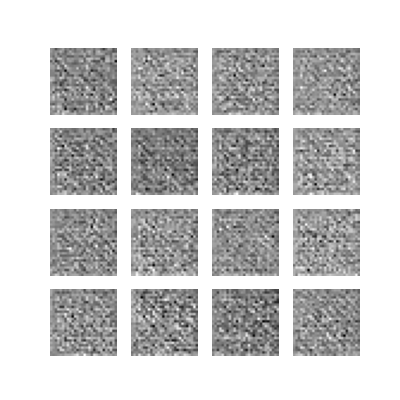
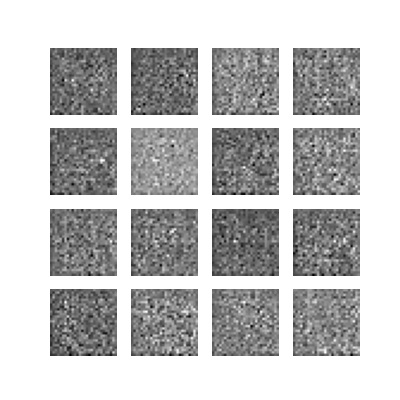
2/17

diff --git a/train.py b/train.py
@@ -21,7 +21,7 @@ def reconstruction_loss(model, X):
     X_pred = model.decode(Z)
     cross_ent = tf.nn.sigmoid_cross_entropy_with_logits(logits=X_pred, labels=X)
     logx_z = -tf.reduce_sum(cross_ent, axis=[1, 2, 3])
-    return -tf.reduce_mean(logx_z)
+    return logx_z
 
 
 def log_normal_pdf(sample, mean, logvar, raxis=1):
@@ -30,8 +30,6 @@ def log_normal_pdf(sample, mean, logvar, raxis=1):
         -.5 * ((sample - mean) ** 2. * tf.exp(-logvar) + logvar + log2pi),
         axis=raxis)
 
-def kl_divergence(logvar, mean):
-    return -0.5 * tf.reduce_mean((1 + logvar - mean**2 - tf.exp(logvar)))
 
 def rotate_vector(vector, matrix):
     matrix = tf.cast(matrix, tf.float32)
@@ -78,7 +76,8 @@ def rota_cross_loss(model, x, d):
     return logx_z
 
 
-def compute_loss(model, x):
+
+def compute_loss(model, x, r_x):
     beta = model.beta
     mean, logvar = model.encode(x)
     z = model.reparameterize(mean, logvar)
@@ -88,11 +87,11 @@ def compute_loss(model, x):
     kl_loss = kl_divergence(logvar, mean)
     beta_loss = reco_loss + kl_loss * beta
     '''
-    cross_ent = tf.nn.sigmoid_cross_entropy_with_logits(logits=x_logit, labels=x)
-    logpx_z = -tf.reduce_sum(cross_ent, axis=[1, 2, 3])
+    logpx_z = reconstruction_loss(model, r_x)
+    logp_rx_z = reconstruction_loss(model, r_x)
     logpz = log_normal_pdf(z, 0., 0.)
     logqz_x = log_normal_pdf(z, mean, logvar)
-    return logpx_z + logpz - beta * logqz_x
+    return logpx_z + logpz - beta * logqz_x + logp_rx_z
 
 
 def generate_and_save_images(model, epoch, test_sample):
@@ -119,12 +118,11 @@ def start_train(epochs, model, train_dataset, test_dataset, date, filePath):
     def train_step(model, x, optimizer):
         d = random.randint(30, 90)
         with tf.GradientTape() as tape:
-            ori_loss = compute_loss(model, x)
             r_x = rotate(x, -d)
-            rota_loss = compute_loss(model, r_x)
+            ori_loss = compute_loss(model, x, r_x)
             ori_cross_l = ori_cross_loss(model, x, d)
             rota_cross_l = rota_cross_loss(model, x, d)
-            total_loss = -tf.reduce_mean(ori_loss + rota_loss + ori_cross_l + rota_cross_l)
+            total_loss = -tf.reduce_mean(ori_loss + ori_cross_l + rota_cross_l)
         gradients = tape.gradient(total_loss, model.trainable_variables)
         optimizer.apply_gradients(zip(gradients, model.trainable_variables))
         '''
@@ -133,9 +131,7 @@ def start_train(epochs, model, train_dataset, test_dataset, date, filePath):
             rota_loss = compute_loss(model, r_x)
         gradients = tape.gradient(rota_loss, model.trainable_variables)  
         optimizer.apply_gradients(zip(gradients, model.trainable_variables))
-
         with tf.GradientTape() as tape:
-
         gradients = tape.gradient(total_loss, model.trainable_variables)
         optimizer.apply_gradients(zip(gradients, model.trainable_variables))
         '''
@@ -158,10 +154,10 @@ def start_train(epochs, model, train_dataset, test_dataset, date, filePath):
         loss = tf.keras.metrics.Mean()
         d = random.randint(30, 90)
         for test_x in test_dataset:
-            rota_loss = -tf.reduce_mean(rota_cross_loss(model, test_x, d)
-                                        + ori_cross_loss(model, test_x, d))
-            loss([compute_loss(model, test_x),
-                 rota_loss])
+            total_loss = -tf.reduce_mean(rota_cross_loss(model, test_x, d)
+                                        + ori_cross_loss(model, test_x, d)
+                                        + compute_loss(model, test_x))
+            loss(total_loss)
         elbo = -loss.result()
         print('Epoch: {}, Test set ELBO: {}, time elapse for current epoch: {}'
                 .format(epoch, elbo, end_time - start_time))
@@ -192,7 +188,7 @@ if __name__ == '__main__':
         shape=[num_examples_to_generate, 10])
     for i in range(2,6):
         model = CVAE(latent_dim=16, beta=i)
-        date = '2_21'
+        date = '2_21/'
         str_i = str(i)
         file_path = 'method' + str_i
         start_train(epochs, model, train_dataset, test_dataset, date, file_path)
